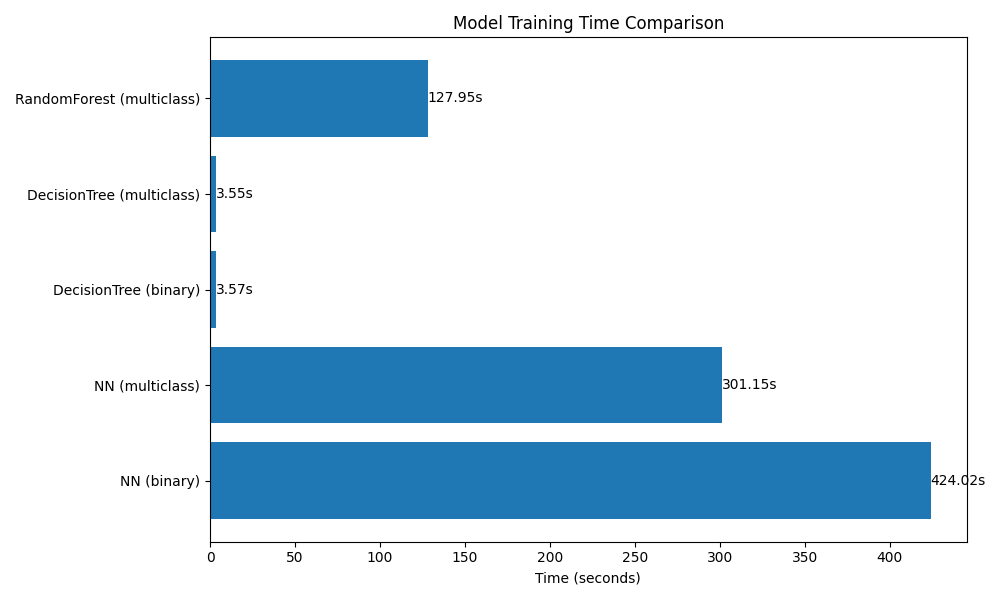
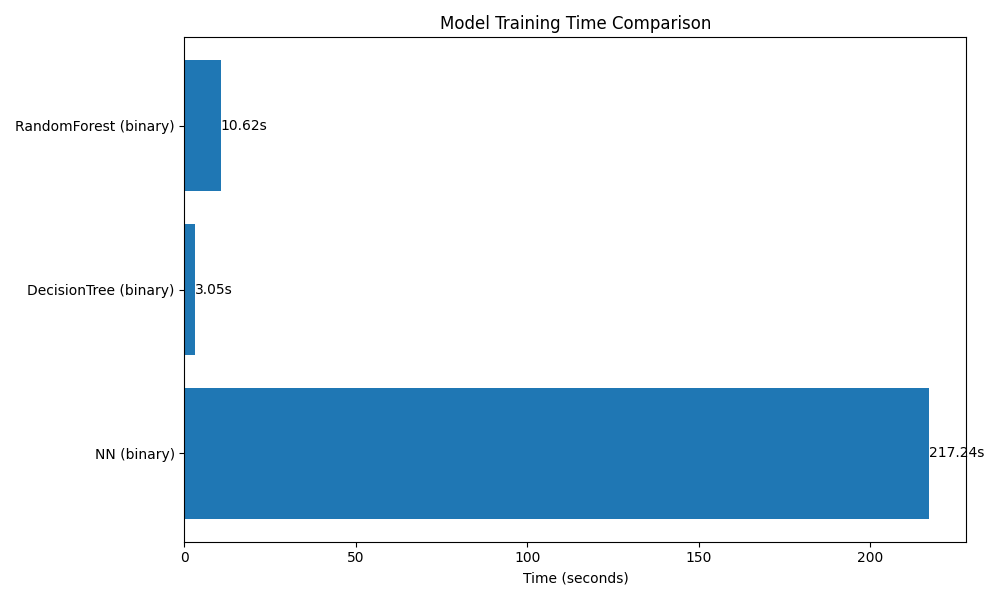
add stats for multiclass classification

diff --git a/data_statistics.py b/data_statistics.py
@@ -89,7 +89,7 @@ def plot_confusion_matrix(y_true, y_pred, class_names):
     sns.heatmap(cm, annot=True, fmt='.2f', cmap='Blues', 
                 xticklabels=class_names, yticklabels=class_names,
                 annot_kws={'size':12},
-                cbar_kws={'label': 'Count'})
+                cbar=False)
     plt.title('Confusion Matrix')
     plt.ylabel('True Label')
     plt.xlabel('Predicted Label')
@@ -235,32 +235,47 @@ def special_character_histograms(df: pd.DataFrame) -> None:
     fig.set_figwidth(16)
     fig.subplots_adjust(bottom=0.25, hspace=0.8, wspace=0.6)
     fig.suptitle(f'Special Character Counts')
-    
-    # First plot (benign special counts)
+
+    bins = np.linspace(0, 100, 11)
+
+    # --- Compute data first so we can align the Y axis ---
+    benign_counts = df[df['type'] == 'benign']['url'] \
+        .apply(count_special_chars).to_list()
+    malicious_counts = df[df['type'] != 'benign']['url'] \
+        .apply(count_special_chars).to_list()
+
+    # Histogram + relative frequency (no plotting yet)
+    benign_hist, _ = np.histogram(benign_counts, bins=bins)
+    malicious_hist, _ = np.histogram(malicious_counts, bins=bins)
+
+    benign_rel = benign_hist / benign_hist.sum()
+    malicious_rel = malicious_hist / malicious_hist.sum()
+
+    # Shared Y-axis limit
+    max_y = max(benign_rel.max(), malicious_rel.max()) * 1.1
+
+    # --- First plot (Benign) ---
     this_ax = ax[0]
-    special_counts = df[df['type'] == 'benign']['url'].apply(count_special_chars).to_list()
-    counts, bins = this_ax.hist(special_counts, bins=np.linspace(0, 100, 11), density=False)[:2]
-    rel_freq = counts / counts.sum()
-    this_ax.cla()
-    this_ax.bar(bins[:-1], rel_freq, width=np.diff(bins), align='center')
+    this_ax.bar(bins[:-1], benign_rel, width=np.diff(bins), align='center')
     this_ax.set_title('Benign URLs')
     this_ax.set_xlabel('Length')
     this_ax.set_ylabel('Relative Frequency')
-    this_ax.set_xticks(bins, bins, rotation=45, ha='right', rotation_mode='anchor', size=8)
+    this_ax.set_xticks(bins, bins, rotation=45, ha='right',
+                       rotation_mode='anchor', size=8)
     this_ax.xaxis.set_major_formatter(FormatStrFormatter('%0d'))
+    this_ax.set_ylim(0, max_y)
 
-    # Second plot (malicious special counts)
+    # --- Second plot (Malicious) ---
     this_ax = ax[1]
-    special_counts = df[df['type'] != 'benign']['url'].apply(count_special_chars).to_list()
-    counts, bins = this_ax.hist(special_counts, bins=np.linspace(0, 100, 11), density=False)[:2]
-    rel_freq = counts / counts.sum()
-    this_ax.cla()
-    this_ax.bar(bins[:-1], rel_freq, width=np.diff(bins), align='edge')
+    this_ax.bar(bins[:-1], malicious_rel, width=np.diff(bins), align='edge')
     this_ax.set_title('Malicious URLs')
     this_ax.set_xlabel('Length')
     this_ax.set_ylabel('Relative Frequency')
-    this_ax.set_xticks(bins, bins, rotation=45, ha='right', rotation_mode='anchor', size=8)
+    this_ax.set_xticks(bins, bins, rotation=45, ha='right',
+                       rotation_mode='anchor', size=8)
     this_ax.xaxis.set_major_formatter(FormatStrFormatter('%0d'))
+    this_ax.set_ylim(0, max_y)
+
 
 
 def subdomain_count_histograms(df: pd.DataFrame) -> None:

diff --git a/benchmarks.py b/benchmarks.py
@@ -72,25 +72,18 @@ def run_all(out_dir='benchmarks_output'):
 
     timings = []
 
+    # Binary classification experiments only
+    class_distinguisher_bin = lambda x: 0 if x == 'benign' else 1
+
     # 1) Neural Net - binary
     print('\nPreparing NN (binary)...')
-    class_distinguisher_bin = lambda x: 0 if x == 'benign' else 1
     df_bin = safe_balance(df, class_distinguisher_bin, cap=50_000)
     X_bin, y_bin = prepare_nn_arrays(df_bin, class_distinguisher_bin)
     print('Running NN binary...')
     t_nn_bin = time_nn(X_bin, y_bin, class_names=['benign', 'malicious'])
     timings.append(('NN (binary)', t_nn_bin))
 
-    # 2) Neural Net - multiclass (all)
-    print('\nPreparing NN (multiclass)...')
-    class_distinguisher_all = lambda x: 0 if x == 'benign' else 1 if x == 'phishing' else 2 if x == 'malware' else 3
-    df_all = safe_balance(df, class_distinguisher_all, cap=20_000)
-    X_all, y_all = prepare_nn_arrays(df_all, class_distinguisher_all)
-    print('Running NN multiclass...')
-    t_nn_multi = time_nn(X_all, y_all, class_names=['benign', 'phishing', 'malware', 'defacement'])
-    timings.append(('NN (multiclass)', t_nn_multi))
-
-    # 3) Decision Tree - binary
+    # 2) Decision Tree - binary
     print('\nPreparing Decision Tree (binary)...')
     df_dt_bin = safe_balance(df, class_distinguisher_bin, cap=50_000)
     X_dt_bin, y_dt_bin = prepare_dt_df(df_dt_bin)
@@ -99,23 +92,14 @@ def run_all(out_dir='benchmarks_output'):
     t_dt_bin = time_decision_tree(X_train, X_test, y_train, y_test, class_names=['benign', 'malicious'])
     timings.append(('DecisionTree (binary)', t_dt_bin))
 
-    # 4) Decision Tree - multiclass
-    print('\nPreparing Decision Tree (multiclass)...')
-    df_dt_multi = safe_balance(df, class_distinguisher_all, cap=20_000)
-    X_dt_multi, y_dt_multi = prepare_dt_df(df_dt_multi)
-    X_train, X_test, y_train, y_test = train_test_split(X_dt_multi, y_dt_multi, test_size=0.2, random_state=2)
-    print('Running Decision Tree multiclass...')
-    t_dt_multi = time_decision_tree(X_train, X_test, y_train, y_test, class_names=['benign', 'defacement', 'phishing', 'malware'])
-    timings.append(('DecisionTree (multiclass)', t_dt_multi))
-
-    # 5) Random Forest - multiclass (use same as decision tree multiclass)
-    print('\nPreparing Random Forest (multiclass)...')
-    df_rf = df_dt_multi  # already balanced and feature-extracted
-    X_rf, y_rf = X_dt_multi, y_dt_multi
+    # 3) Random Forest - binary
+    print('\nPreparing Random Forest (binary)...')
+    # reuse df_dt_bin (already balanced and feature-extracted)
+    X_rf, y_rf = X_dt_bin, y_dt_bin
     X_train, X_test, y_train, y_test = train_test_split(X_rf, y_rf, test_size=0.2, random_state=2)
-    print('Running Random Forest multiclass...')
-    t_rf_multi = time_random_forest(X_train, X_test, y_train, y_test)
-    timings.append(('RandomForest (multiclass)', t_rf_multi))
+    print('Running Random Forest binary...')
+    t_rf_bin = time_random_forest(X_train, X_test, y_train, y_test)
+    timings.append(('RandomForest (binary)', t_rf_bin))
 
     # Save timings to CSV
     csv_path = os.path.join(out_dir, 'timings.csv')

diff --git a/nn.py b/nn.py
@@ -118,26 +118,32 @@ def evaluate_nn(X: np.ndarray, y: np.ndarray, test_size=0.1, class_names: list |
         # Calculate statistics
         correct_count = (predicted == y_test).sum().item()
         accuracy = correct_count / len(y_test)
+        
+        tp = ((predicted == 1) & (y_test == 1)).sum().item()
+        fp = ((predicted == 1) & (y_test == 0)).sum().item()
+        tn = ((predicted == 0) & (y_test == 0)).sum().item()
+        fn = ((predicted == 0) & (y_test == 1)).sum().item()
+        precision = tp / (tp + fp)
+        recall = tp / (tp + fn)
+        f1_score = (2 * precision * recall) / (precision + recall)
+        
 
-        if classes == 2:
-            tp = ((predicted == 1) & (y_test == 1)).sum().item()
-            fp = ((predicted == 1) & (y_test == 0)).sum().item()
-            tn = ((predicted == 0) & (y_test == 0)).sum().item()
-            fn = ((predicted == 0) & (y_test == 1)).sum().item()
+        print('\nResults:')
+        print('True Positives:', tp)
+        print('False Positives:', fp)
+        print('True Negatives:', tn)
+        print('False Negatives:', fn)
+        print()
 
-            print('\nResults:')
-            print('True Positives:', tp)
-            print('False Positives:', fp)
-            print('True Negatives:', tn)
-            print('False Negatives:', fn)
-            print()
-
-            precision = tp / (tp + fp)
-            recall = tp / (tp + fn)
-            f1_score = (2 * precision * recall) / (precision + recall)
+        precision = tp / (tp + fp)
+        recall = tp / (tp + fn)
+        f1_score = (2 * precision * recall) / (precision + recall)
     
     # Print results
     print(f'Accuracy: {accuracy*100:.2f}%')
+    print(f'Precision: {precision*100:.2f}%')
+    print(f'Recall: {recall*100:.2f}%')
+    print(f'F1-score: {f1_score:.2f}')
     if classes == 2:
         print(f'Precision: {precision*100:.2f}%')
         print(f'Recall: {recall*100:.2f}%')
